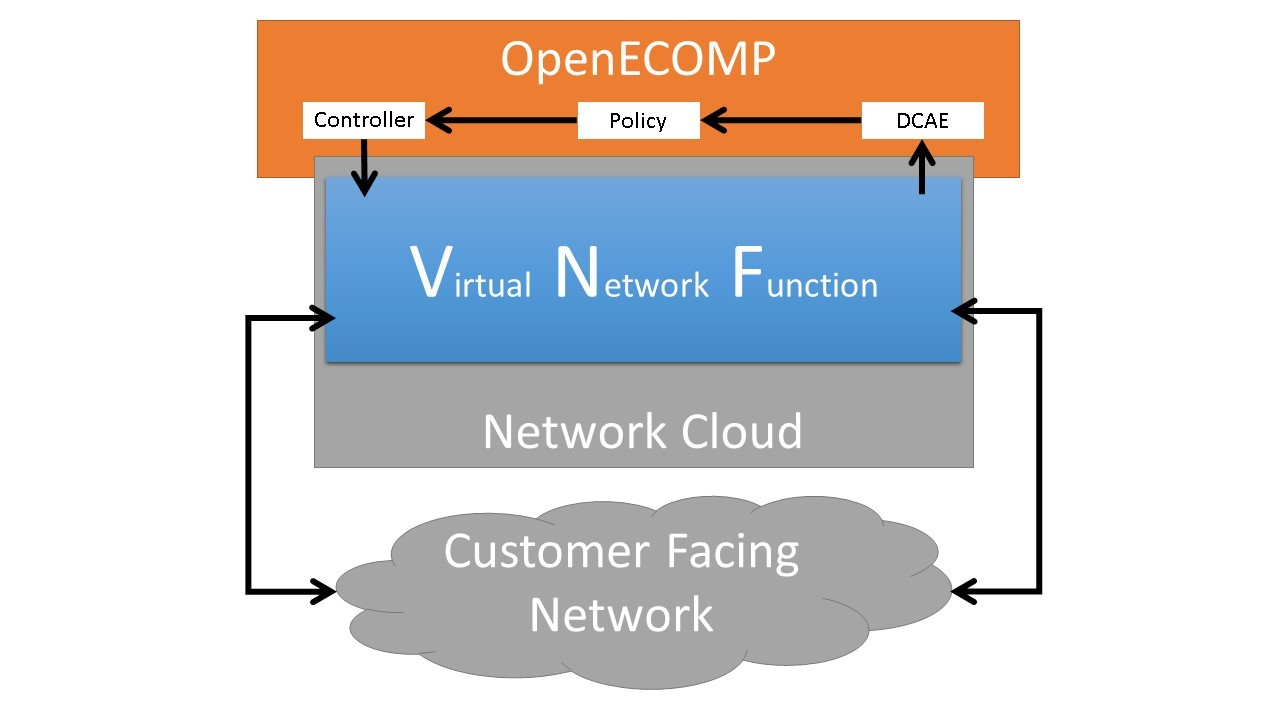
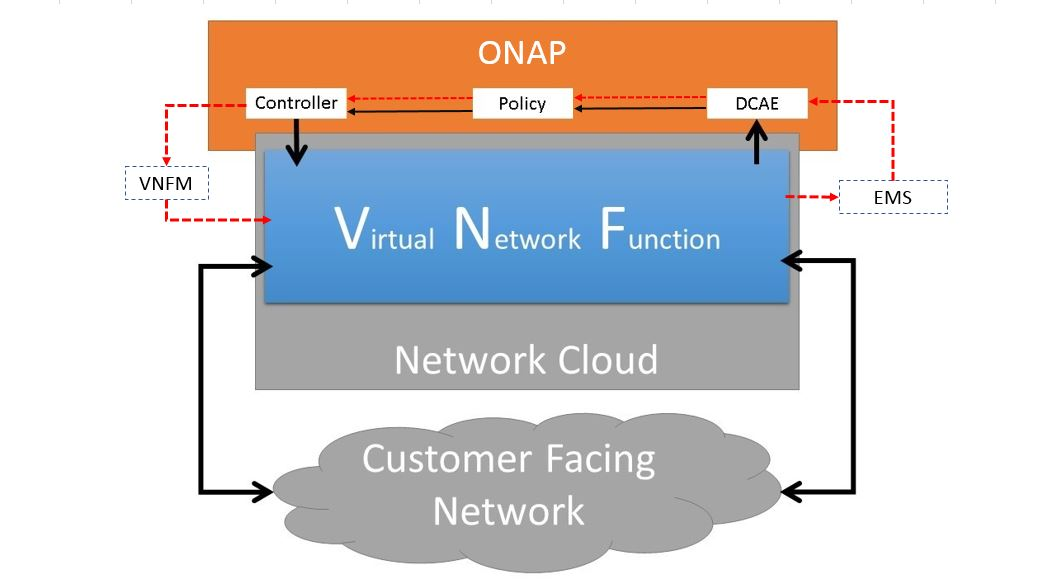
bug fix vnfrqts-121
Issue-id:VNFRQTS-121

diff --git a/docs/vnf_guidelines/vnf_guidelines.rst b/docs/vnf_guidelines/vnf_guidelines.rst
@@ -66,10 +66,10 @@ communities imply corresponding changes in processes at many industry
 collaboration bodies. With limited operational experience and much more
 dynamic requirements, open source communities are expected to evolve
 these VNF guidelines further before final documentation of those aspects
-necessary for standardization. This white paper and accompanying
-reference documents provides VNF providers, NCSPs and other interested
-3rd parties a set of guidelines and requirements for the design, build
-and overall lifecycle management of VNFs.
+necessary for standardization. This document and accompanying refer documents 
+provides VNF providers, NCSPs and other interested 3rd parties a set of 
+guidelines and requirements for the design, build and overall lifecycle 
+management of VNFs.
 
 **VNF Providers**
 
@@ -271,18 +271,16 @@ may also be assembled from VNF components (VNFCs) that each provide a
 reusable set of functionality. VNFs are expected to take advantage of
 platform provided common services.
 
-VNF management and control under ONAP is different than management
-and control exposed in the ETSI MANO model. With ONAP, there is
-only a single management and control plane. In ETSI’s Framework [10]_,
-architectural options exist for preserving legacy systems that increase
-integration costs e.g., different VNFs can be controlled by VNF Managers
-(VNFMs) and Element Management Systems (EMSs) provided by different
-software providers. ONAP addresses the concern that multiple VNFMs
-in this space will hinder VNF reuse and increase VNF and service
-integration costs. Asking all VNF providers to take advantage of and
-interoperate with common control software mitigates related reuse and
-integration challenges. The common, SDN based, control platform
-(ONAP) is being made available as an open source project to reduce
+VNF management and control under ONAP is not complete as same as the 
+management and control exposed in the ETSI MANO model. With ONAP, there 
+are two ways to manage and control VNF. One is asking all VNF providers 
+to take advantage of and interoperate with common control software, as 
+loop indicates by the black arrows in figure 1. At the same time a  
+management and control architectural options exist for preserving legacy 
+systems, e.g., different VNFs can be controlled by VNF Managers(VNFMs) and 
+Element Management Systems (EMSs) provided by different software providers, 
+as the loop indicates by the red arrows in figure 1. 
+The ONAP is being made available as an open source project to reduce
 friction for VNF providers and enable new network functions to get to
 market faster and with lower costs.
 
@@ -568,12 +566,6 @@ build customization. Don’t create unique (snowflake) VNFs requiring any
 manual work or human attention to deploy. Do create standardized (Lego™)
 VNFs that can be deployed in a fully automated way.
 
-ONAP will orchestrate updates and upgrades of VNFs. The target
-method for updates and upgrades is to onboard and validate the new
-version, then build a new instance with the new version of software,
-transfer traffic to that instance and kill the old instance. There
-should be no need for the VNF or its components to provide an
-update/upgrade mechanism.
 
 Automation
 ^^^^^^^^^^
@@ -644,8 +636,8 @@ Configuration Management
 
 ONAP must be able to orchestrate and manage the VNF configuration
 to provide fully automated environment for rapid service provisioning
-and modification. VNF configuration/reconfiguration must be allowed
-directly through standardized APIs without the need for an EMS.
+and modification. VNF configuration/reconfiguration could be allowed
+directly through standardized APIs or through EMS and VF-C.
 
 Monitoring and Management
 ~~~~~~~~~~~~~~~~~~~~~~~~~~
@@ -655,11 +647,11 @@ environment will greatly depend on the ability to monitor and manage the
 behavior of Virtual Network Functions in real-time. ONAP platform
 must be able to monitor the health of the network and VNFs through
 collection of event and performance data directly from network resources
-utilizing standardized APIs without the need for an EMS. The VNF
-provider must provide visibility into VNF performance and fault at the
-VNFC level (VNFC is the smallest granularity of functionality in our
-architecture) to allow ONAP to proactively monitor, test, diagnose
-and trouble shoot the health and behavior of VNFs at their source.
+utilizing standardized APIs or through EMS. The VNF provider must provide 
+visibility into VNF performance and fault at the VNFC level (VNFC is the 
+smallest granularity of functionality in our architecture) to allow ONAP 
+to proactively monitor, test, diagnose and trouble shoot the health and 
+behavior of VNFs at their source.
 
 Virtualization Environment Ready
 --------------------------------
@@ -689,11 +681,6 @@ requirements. Initially, specifics may differ per Network Cloud
 implementation and are expected to evolve over time, especially as the
 technology matures.
 
-Guest Operating Systems
-~~~~~~~~~~~~~~~~~~~~~~~
-
-VNFs should use the NCSP’s standard set of OS images to enable
-compliance with security, audit, regulatory and other needs.
 
 Compute Flavors
 ~~~~~~~~~~~~~~~
@@ -731,8 +718,9 @@ these guidelines are expected to remain broadly applicable across a
 number of service providers interested in acquiring VNFs.
 
 We invite feedback on these VNF Guidelines in the context of the
-ONAP Project. Comments on these guidelines should be discussed
-there.
+ONAP Project. We anticipate an ongoing project within the ONAP community 
+to maintain similar guidance for VNF developers to ONAP.Comments on these 
+guidelines should be discussed there.
 
 Appendix A - Glossary
 =====================
@@ -740,7 +728,7 @@ Appendix A - Glossary
 +-------------------------------------+-----------------------------------------------------------------------------------------------------------------------------------------------------------------------------------------------------------------------------------------------------------------------------------------------------------------------------------------------------------------------------------------------------------------------------------------------------------------------------------------------------------------------------------------------------------------------------------------------------------------------------------------------------------------------------------------+
 | Heat                                | Heat is a service to orchestrate composite cloud applications using a declarative template format through an OpenStack-native REST API.                                                                                                                                                                                                                                                                                                                                                                                                                                                                                                                                                 |
 +-------------------------------------+-----------------------------------------------------------------------------------------------------------------------------------------------------------------------------------------------------------------------------------------------------------------------------------------------------------------------------------------------------------------------------------------------------------------------------------------------------------------------------------------------------------------------------------------------------------------------------------------------------------------------------------------------------------------------------------------+
-| TOSCA                               |                                                                                                                                                                                                                                                                                                                                                                                                                                                                                                                                                                                                                                                                                         |
+| TOSCA                               | Topology and Orchestration Specification for Cloud Applications (OASIS spec)                                                                                                                                                                                                                                                                                                                                                                                                                                                                                                                                                                                                            |
 +-------------------------------------+-----------------------------------------------------------------------------------------------------------------------------------------------------------------------------------------------------------------------------------------------------------------------------------------------------------------------------------------------------------------------------------------------------------------------------------------------------------------------------------------------------------------------------------------------------------------------------------------------------------------------------------------------------------------------------------------+
 | Network Clouds                      | Network Clouds are built on a framework containing these essential elements: refactoring hardware elements into software functions running on commodity cloud computing infrastructure; aligning access, core, and edge networks with the traffic patterns created by IP based services; integrating the network and cloud technologies on a software platform that enables rapid, highly automated, deployment and management of services, and software defined control so that both infrastructure and functions can be optimized across change in service demand and infrastructure availability; and increasing competencies in software integration and a DevOps operations model. |
 +-------------------------------------+-----------------------------------------------------------------------------------------------------------------------------------------------------------------------------------------------------------------------------------------------------------------------------------------------------------------------------------------------------------------------------------------------------------------------------------------------------------------------------------------------------------------------------------------------------------------------------------------------------------------------------------------------------------------------------------------+
